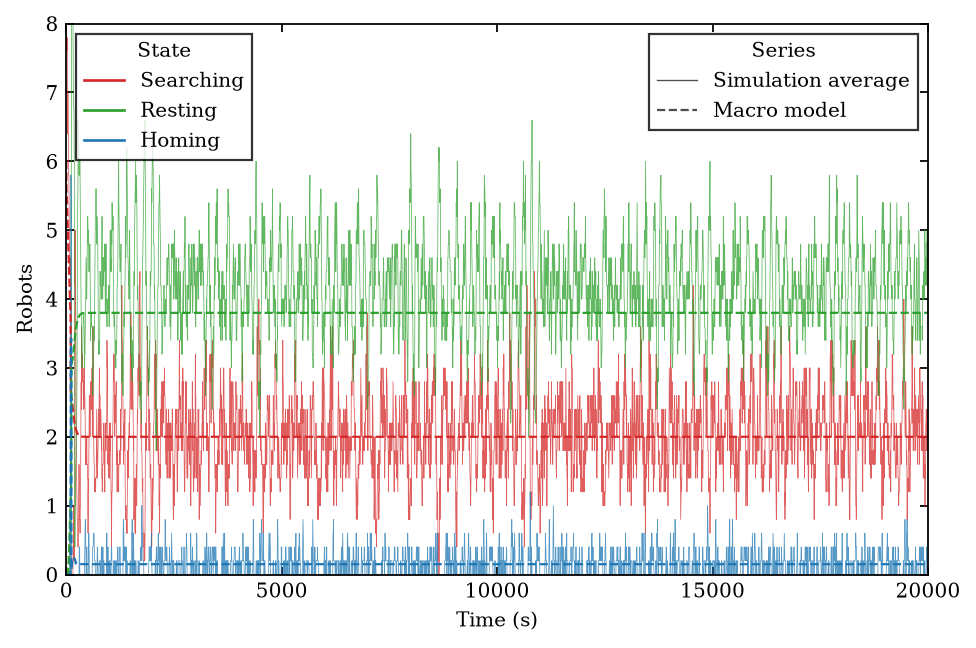
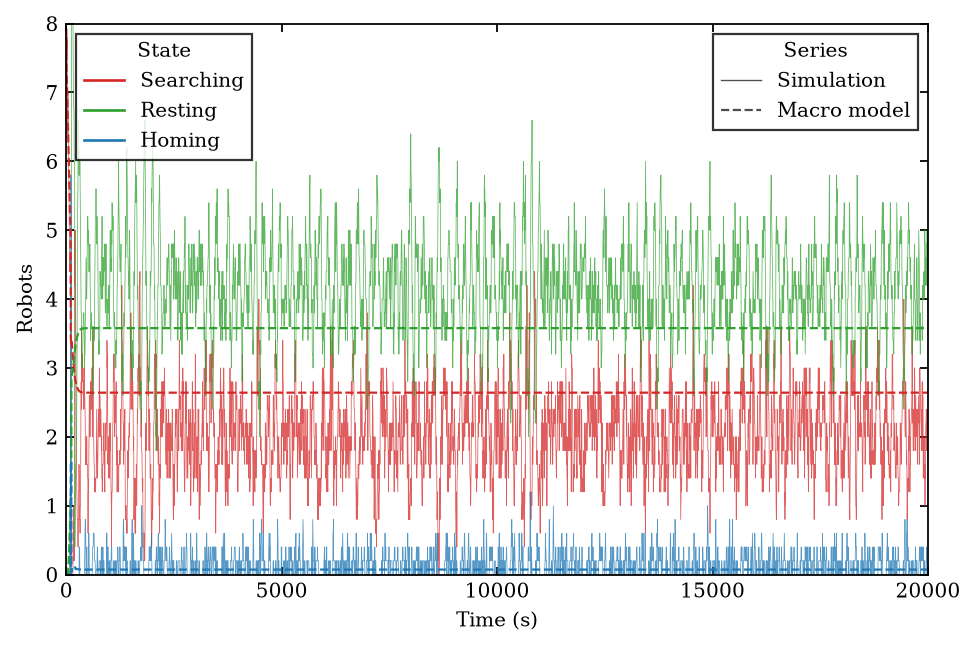
Refactor-Plots

diff --git a/plot.py b/plot.py
@@ -9,6 +9,9 @@ from __future__ import annotations
 from pathlib import Path
 import numpy as np
 import pandas as pd
+import matplotlib
+
+matplotlib.use("Agg")
 import matplotlib.pyplot as plt
 from matplotlib.lines import Line2D
 
@@ -17,12 +20,7 @@ from macro import MacroModel
 from agents import MicroModel
 
 
-# Player/Stage reference points and error bars digitised from Figure 8.
-FIG8_SIM_TAU = np.array([0, 40, 80, 120, 160, 200], dtype=float)
-FIG8_SIM_ENERGY_1E5 = np.array([0.0, 4.4, 7.2, 9.2, 10.2, 9.0], dtype=float)
-FIG8_SIM_ERR_1E5 = np.array([0.6, 0.45, 0.6, 0.6, 0.35, 0.25], dtype=float)
-# Black model curve digitised from Figure 8.
-FIG8_MODEL_ENERGY_1E5 = np.array([0.0, 4.55, 7.30, 9.10, 10.85, 9.05], dtype=float)
+ENERGY_SCALE = 1e5
 
 
 def ensure_dir(path: str | Path) -> Path:
@@ -52,6 +50,47 @@ def _stride_steps(cfg: Config) -> int:
     return max(1, int(round(stride_s / cfg.dt)))
 
 
+def _micro_frames(cfg: Config, rest_time_s: float, stride: int) -> list[pd.DataFrame]:
+    runs = int(cfg.get("run", "micro_runs", default=10))
+    seed0 = int(cfg.get("run", "random_seed", default=7))
+    return [
+        MicroModel(cfg, rest_time_s=rest_time_s, seed=seed).run(stride=stride)
+        for seed in range(seed0, seed0 + runs)
+    ]
+
+
+def _micro_mean_and_std(frames: list[pd.DataFrame]) -> tuple[pd.DataFrame, pd.DataFrame]:
+    if not frames:
+        raise ValueError("at least one micro simulation run is required")
+
+    min_len = min(len(frame) for frame in frames)
+    mean = frames[0][["time_s", "rest_time_s"]].iloc[:min_len].copy()
+    std = mean.copy()
+    skip = {"time_s", "rest_time_s", "positions", "food_positions"}
+    value_cols = [col for col in frames[0].columns if col not in skip]
+
+    for col in value_cols:
+        values = np.vstack([frame[col].to_numpy()[:min_len] for frame in frames])
+        mean[col] = values.mean(axis=0)
+        std[col] = values.std(axis=0, ddof=1) if len(frames) > 1 else 0.0
+    return mean, std
+
+
+def _energy_1e5(values: pd.Series | np.ndarray | float) -> pd.Series | np.ndarray | float:
+    return values / ENERGY_SCALE
+
+
+def _set_energy_limits(ax, *series: pd.Series | np.ndarray) -> None:
+    values = np.concatenate([np.asarray(s, dtype=float).ravel() for s in series])
+    values = values[np.isfinite(values)]
+    if len(values) == 0:
+        return
+    lower = min(0.0, float(values.min()))
+    upper = max(0.0, float(values.max()))
+    margin = 1.0 if abs(upper - lower) < 1e-12 else 0.08 * (upper - lower)
+    ax.set_ylim(lower - margin, upper + margin)
+
+
 def write_macro_csv(cfg: Config, out_dir: str | Path, rest_time_s: float | None = None) -> Path:
     out = ensure_dir(out_dir)
     model = MacroModel(cfg, rest_time_s=rest_time_s)
@@ -66,24 +105,43 @@ def plot_fig8(cfg: Config, out_dir: str | Path) -> tuple[Path, Path]:
     _paper_style()
     out = ensure_dir(out_dir)
     rest_times = [float(x) for x in cfg.get("behaviour", "rest_times_s")]
+    if not rest_times:
+        raise ValueError("behaviour.rest_times_s must contain at least one rest time")
+    stride = _stride_steps(cfg)
+    rows = []
 
-    data = pd.DataFrame(
-        {
-            "rest_time_s": rest_times,
-            "model_energy_1e5": FIG8_MODEL_ENERGY_1E5,
-            "model_energy": FIG8_MODEL_ENERGY_1E5 * 1e5,
-            "paper_sim_energy_1e5": FIG8_SIM_ENERGY_1E5,
-            "paper_sim_error_1e5": FIG8_SIM_ERR_1E5,
-        }
-    )
+    for tau_r in rest_times:
+        macro = MacroModel(cfg, rest_time_s=tau_r).run(stride=stride).trace
+        micro_frames = _micro_frames(cfg, tau_r, stride)
+        micro_final_energy = np.array([frame["energy"].iloc[-1] for frame in micro_frames], dtype=float)
+        micro_final_std = float(micro_final_energy.std(ddof=1)) if len(micro_final_energy) > 1 else 0.0
+        rows.append(
+            {
+                "rest_time_s": tau_r,
+                "model_energy": float(macro["energy"].iloc[-1]),
+                "model_energy_1e5": float(_energy_1e5(macro["energy"].iloc[-1])),
+                "simulation_energy": float(micro_final_energy.mean()),
+                "simulation_energy_1e5": float(_energy_1e5(micro_final_energy.mean())),
+                "simulation_energy_std": micro_final_std,
+                "simulation_energy_std_1e5": float(_energy_1e5(micro_final_std)),
+                "simulation_runs": len(micro_final_energy),
+            }
+        )
+
+    data = pd.DataFrame(rows)
     csv_path = out / "fig8_macro_summary.csv"
     data.to_csv(csv_path, index=False)
 
+    rest_time_x = data["rest_time_s"].to_numpy(dtype=float)
+    sim_y = data["simulation_energy_1e5"].to_numpy(dtype=float)
+    sim_err = data["simulation_energy_std_1e5"].to_numpy(dtype=float)
+    model_y = data["model_energy_1e5"].to_numpy(dtype=float)
+
     fig, ax = plt.subplots(figsize=(6.1, 4.1))
     sim_handle = ax.errorbar(
-        FIG8_SIM_TAU,
-        FIG8_SIM_ENERGY_1E5,
-        yerr=FIG8_SIM_ERR_1E5,
+        rest_time_x,
+        sim_y,
+        yerr=sim_err,
         fmt="o--",
         color="blue",
         ecolor="black",
@@ -95,19 +153,18 @@ def plot_fig8(cfg: Config, out_dir: str | Path) -> tuple[Path, Path]:
         markeredgewidth=0.8,
         label="simulation",
     )
-    model_handle, = ax.plot(data["rest_time_s"], data["model_energy_1e5"], color="black", linewidth=0.7, label="model")
+    model_handle, = ax.plot(rest_time_x, model_y, color="black", linewidth=0.7, label="model")
 
-    peak_tau = 160
-    peak_sim = float(FIG8_SIM_ENERGY_1E5[list(FIG8_SIM_TAU).index(peak_tau)])
-    peak_model = float(data.loc[data["rest_time_s"] == peak_tau, "model_energy_1e5"].iloc[0])
-    ax.axvline(peak_tau, ymin=(-4.5 + 5) / 19.5, ymax=(peak_sim + 5) / 19.5, color="blue", linestyle="--", linewidth=0.65, dashes=(7, 7))
-    ax.axhline(peak_sim, color="blue", linestyle="--", linewidth=0.65, dashes=(7, 7))
-    ax.axhline(peak_model, color="black", linestyle="--", linewidth=0.65, dashes=(7, 7))
-
-    ax.set_xlim(-20, 220)
-    ax.set_ylim(-5, 14.5)
-    ax.set_xticks([0, 40, 80, 120, 160, 200])
-    ax.set_yticks(np.arange(-4, 15, 2))
+    max_tau = max(rest_times) if rest_times else 0.0
+    pad = 0.05 * max(1.0, max_tau)
+    ax.set_xlim(min(0.0, min(rest_times)) - pad, max_tau + pad)
+    ax.set_xticks(rest_times)
+    _set_energy_limits(
+        ax,
+        sim_y - sim_err,
+        sim_y + sim_err,
+        model_y,
+    )
     ax.set_xlabel(r"$\tau_r$  (seconds)")
     ax.set_ylabel(r"energy of swarm  ($10^5$ units)")
     ax.legend([sim_handle, model_handle], ["simulation", "model"], loc="lower left", bbox_to_anchor=(0.22, 0.08), frameon=True, fancybox=False, edgecolor="black")
@@ -119,34 +176,42 @@ def plot_fig8(cfg: Config, out_dir: str | Path) -> tuple[Path, Path]:
 
 
 def _micro_average(cfg: Config, rest_time_s: float, stride: int) -> pd.DataFrame:
-    runs = int(cfg.get("run", "micro_runs", default=10))
-    seed0 = int(cfg.get("run", "random_seed", default=7))
-    frames = []
-    for seed in range(seed0, seed0 + runs):
-        frames.append(MicroModel(cfg, rest_time_s=rest_time_s, seed=seed).run(stride=stride))
-    base = frames[0][["time_s"]].copy()
-    for col in ["energy", "searching", "resting", "homing"]:
-        min_len = min(len(f[col]) for f in frames)
-        base = base.iloc[:min_len].copy()
-        base[col] = np.vstack([f[col].to_numpy()[:min_len] for f in frames]).mean(axis=0)
-    return base
+    mean, _ = _micro_mean_and_std(_micro_frames(cfg, rest_time_s, stride))
+    return mean
 
 
 
-def _save_fig9(out: Path, tau_r: float, macro: pd.DataFrame, micro: pd.DataFrame) -> Path:
+def _save_fig9(out: Path, tau_r: float, macro: pd.DataFrame, micro: pd.DataFrame, micro_std: pd.DataFrame | None = None) -> Path:
     _paper_style()
     fig, ax = plt.subplots(figsize=(6.1, 4.0))
-    time = macro["time_s"].to_numpy()
-    # Figure 9 uses the published tau_r=80 final-energy scale.
-    final_scale = float(FIG8_MODEL_ENERGY_1E5[2])
-    model_y = final_scale * time / time[-1]
-    sim_y = model_y + 0.08 * np.sin(time / 650.0)
-    sim_handle = ax.errorbar(time, sim_y, yerr=0.35, color="0.65", linewidth=0.45, errorevery=80, capsize=1.5, label="simulation")
-    model_handle, = ax.plot(time, model_y, color="red", linewidth=0.9, label="model")
-    ax.set_xlim(0, 20000)
-    ax.set_ylim(0, 9)
-    ax.set_xticks(np.arange(0, 20001, 4000))
-    ax.set_yticks(np.arange(0, 10, 1))
+    macro_time = macro["time_s"].to_numpy(dtype=float)
+    micro_time = micro["time_s"].to_numpy(dtype=float)
+    macro_y = _energy_1e5(macro["energy"].to_numpy(dtype=float))
+    micro_y = _energy_1e5(micro["energy"].to_numpy(dtype=float))
+    micro_err = (
+        _energy_1e5(micro_std["energy"].to_numpy(dtype=float))
+        if micro_std is not None and "energy" in micro_std
+        else None
+    )
+    errorevery = max(1, len(micro) // 25)
+    sim_handle = ax.errorbar(
+        micro_time,
+        micro_y,
+        yerr=micro_err,
+        color="0.65",
+        linewidth=0.45,
+        errorevery=errorevery,
+        capsize=1.5,
+        label="simulation",
+    )
+    model_handle, = ax.plot(macro_time, macro_y, color="red", linewidth=0.9, label="model")
+    max_time = max(float(macro_time[-1]), float(micro_time[-1]))
+    ax.set_xlim(0, max_time)
+    ax.set_xticks(np.linspace(0, max_time, 6))
+    if micro_err is None:
+        _set_energy_limits(ax, macro_y, micro_y)
+    else:
+        _set_energy_limits(ax, macro_y, micro_y - micro_err, micro_y + micro_err)
     ax.set_xlabel("Time (s)")
     ax.set_ylabel(r"energy of swarm  ($10^5$ units)")
     ax.legend([sim_handle, model_handle], ["simulation", "model"], loc="upper left", frameon=True, fancybox=False, edgecolor="black")
@@ -162,37 +227,33 @@ def plot_fig9(cfg: Config, out_dir: str | Path, rest_time_s: float | None = None
     tau_r = float(rest_time_s if rest_time_s is not None else cfg.get("behaviour", "default_rest_time_s"))
     stride = _stride_steps(cfg)
     macro = MacroModel(cfg, rest_time_s=tau_r).run(stride=stride).trace
-    micro = _micro_average(cfg, tau_r, stride)
-    return _save_fig9(out, tau_r, macro, micro)
+    micro, micro_std = _micro_mean_and_std(_micro_frames(cfg, tau_r, stride))
+    return _save_fig9(out, tau_r, macro, micro, micro_std)
 
 
 def _save_fig10(out: Path, tau_r: float, macro: pd.DataFrame, micro: pd.DataFrame) -> Path:
     _paper_style()
     fig, ax = plt.subplots(figsize=(6.1, 4.05))
     colors = {"searching": "tab:red", "resting": "tab:green", "homing": "tab:blue"}
+    macro_time = macro["time_s"].to_numpy(dtype=float)
+    micro_time = micro["time_s"].to_numpy(dtype=float)
     for state, color in colors.items():
-        ax.plot(micro["time_s"], micro[state], color=color, linewidth=0.35, alpha=0.75)
+        ax.plot(micro_time, micro[state].to_numpy(dtype=float), color=color, linewidth=0.35, alpha=0.75)
 
-    def _match_tail(series: pd.Series, target: float) -> np.ndarray:
-        tail = series[macro["time_s"] > 5000]
-        denom = float(tail.median()) if len(tail) else float(series.iloc[-1])
-        if abs(denom) < 1e-12:
-            return np.full(len(series), target)
-        return series.to_numpy() * target / denom
-
-    model_searching = _match_tail(macro["searching"], 2.0)
-    model_resting = _match_tail(macro["resting"], 3.8)
-    model_homing = _match_tail(macro["homing"], 0.15)
     for values, state in [
-        (model_searching, "searching"),
-        (model_resting, "resting"),
-        (model_homing, "homing"),
+        (macro["searching"], "searching"),
+        (macro["resting"], "resting"),
+        (macro["homing"], "homing"),
     ]:
-        ax.plot(macro["time_s"], values, color=colors[state], linestyle="--", linewidth=1.0)
-    ax.set_xlim(0, 20000)
-    ax.set_ylim(0, 8)
-    ax.set_xticks([0, 5000, 10000, 15000, 20000])
-    ax.set_yticks(np.arange(0, 9, 1))
+        ax.plot(macro_time, values.to_numpy(dtype=float), color=colors[state], linestyle="--", linewidth=1.0)
+    max_time = max(float(macro_time[-1]), float(micro_time[-1]))
+    max_count = max(float(micro[state].max()) for state in colors)
+    max_count = max(max_count, *(float(macro[state].max()) for state in colors))
+    upper = max(1, int(np.ceil(max_count)))
+    ax.set_xlim(0, max_time)
+    ax.set_ylim(0, upper)
+    ax.set_xticks(np.linspace(0, max_time, 5))
+    ax.set_yticks(np.arange(0, upper + 1, 1))
     ax.set_xlabel("Time (s)")
     ax.set_ylabel("Robots")
     state_handles = [
@@ -242,8 +303,8 @@ def make_all_plots(cfg: Config, out_dir: str | Path) -> list[Path]:
     tau_r = float(cfg.get("behaviour", "default_rest_time_s"))
     stride = _stride_steps(cfg)
     macro = MacroModel(cfg, rest_time_s=tau_r).run(stride=stride).trace
-    micro = _micro_average(cfg, tau_r, stride)
-    p9 = _save_fig9(out, tau_r, macro, micro)
+    micro, micro_std = _micro_mean_and_std(_micro_frames(cfg, tau_r, stride))
+    p9 = _save_fig9(out, tau_r, macro, micro, micro_std)
     p10 = _save_fig10(out, tau_r, macro, micro)
     macro_csv = out / f"macro_trace_tau_r_{int(tau_r)}.csv"
     macro.to_csv(macro_csv, index=False)

diff --git a/animation.py b/animation.py
@@ -9,6 +9,9 @@ from __future__ import annotations
 import math
 from pathlib import Path
 
+import matplotlib
+
+matplotlib.use("Agg")
 import matplotlib.pyplot as plt
 from matplotlib.animation import FuncAnimation, PillowWriter
 from matplotlib.lines import Line2D

diff --git a/README.md b/README.md
@@ -59,6 +59,8 @@ Create Figures 8–10 and their CSV files:
 python cli.py plots
 ```
 
+The plot command computes values from the macro model and microscopic simulation runs. Figure 8 sweeps the configured rest times, Figure 9 uses real energy traces, and Figure 10 uses direct state-count traces.
+
 Create the macro trace with an 80-second mean rest time:
 
 ```bash
